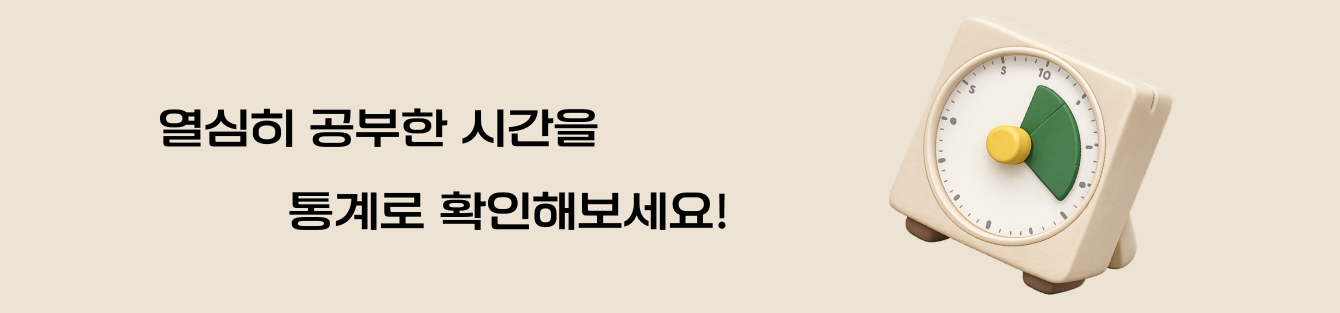
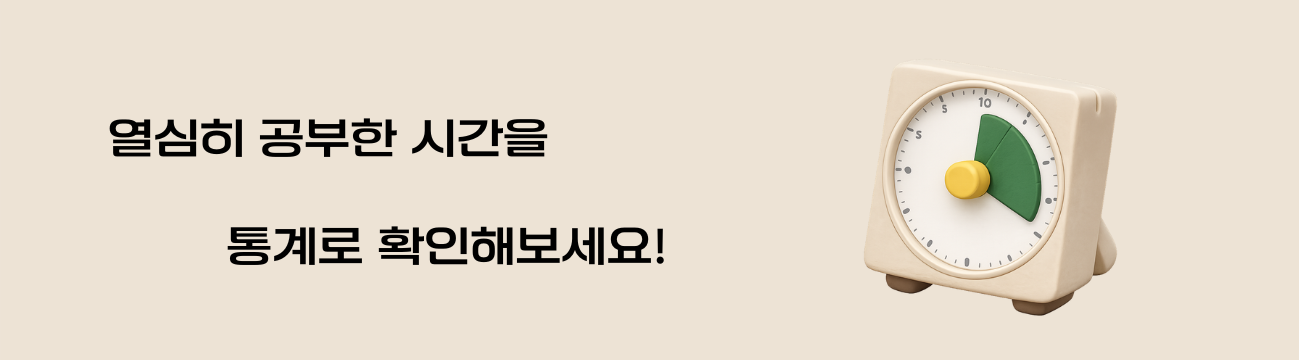
feat: 배너 변경

Changed region(s): [[0.6467, 0.1438, 0.893, 0.9489], [0.0616, 0.3163, 0.4619, 0.4888], [0.154, 0.6038, 0.5543, 0.7476]]

diff --git a/app/page.tsx b/app/page.tsx
@@ -352,10 +352,10 @@ function HomePageInner() {
         <main className="flex w-full">
           {/* Hero + room list */}
           <section className="flex-1 flex flex-col gap-6">
-            {/* 배너 캐러셀 */}
+            {/* 배너 캐러셀 (배너 원본 비율 1080x360 = 3:1 에 맞춘 높이) */}
             <div
               className={`relative w-full overflow-hidden rounded-3xl ${
-                isMobile ? "h-[140px]" : "h-[150px]"
+                isMobile ? "h-[120px]" : "h-[190px]"
               }`}
             >
               <div
@@ -364,24 +364,18 @@ function HomePageInner() {
                   transform: `translateX(-${currentBannerIndex * 100}%)`,
                 }}
               >
-                {banners.map((banner, index) => {
-                  const imgClassName = isMobile
-                    ? "w-full h-full object-cover"
-                    : "w-full h-full object-contain md:object-cover"
-
-                  return (
-                    <div key={index} className="w-full h-full flex-shrink-0">
-                      <Image
-                        src={banner.src}
-                        alt={banner.alt}
-                        width={1200}
-                        height={300}
-                        className={imgClassName}
-                        priority={index === 0}
-                      />
-                    </div>
-                  )
-                })}
+                {banners.map((banner, index) => (
+                  <div key={index} className="w-full h-full flex-shrink-0">
+                    <Image
+                      src={banner.src}
+                      alt={banner.alt}
+                      width={1080}
+                      height={360}
+                      className={isMobile ? "w-full h-full object-cover" : "w-full h-full object-contain"}
+                      priority={index === 0}
+                    />
+                  </div>
+                ))}
               </div>
 
               {/* 배너 인디케이터 */}
